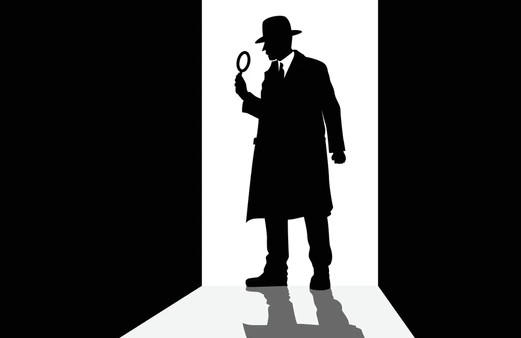
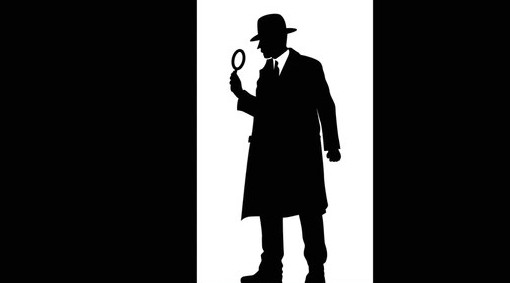
Implemented a link to the images for the projects that lead to the github repo.

Changed region(s): [[0.4412, 0.0, 0.7941, 1.0], [0.2059, 0.0, 0.4118, 1.0]]

diff --git a/src/components/Projects.jsx b/src/components/Projects.jsx
@@ -9,6 +9,7 @@ const projectsData = [
     description:
       "Guess Who is crime investigation game where players take on the role of detectives and work to solve a mystery. Players must gather clues, interrogate suspects, and piece together the evidence to uncover the truth behind the crime.",
     technologies: ["Java", "CSS", "JavaFX"],
+    github: "https://github.com/Cj5822/guess-who",
   },
   {
     image: web3,
@@ -23,6 +24,7 @@ const projectsData = [
       "HTML",
       "CSS",
     ],
+    github: "https://github.com/Cj5822/web3-p2p-website",
   },
 ];
 
@@ -43,11 +45,13 @@ const ProjectCard = ({ project }) => {
   return (
     <ScrollReveal>
       <div className="flex flex-col items-center gap-8 md:flex-row md:gap-20">
-        <img
-          src={project.image}
-          alt=""
-          className="w-full cursor-pointer rounded-2xl transition-all duration-300 hover:scale-105 md:w-[300px]"
-        />
+        <a href={project.github} target="_blank" rel="noopener noreferrer">
+          <img
+            src={project.image}
+            alt=""
+            className="w-full cursor-pointer rounded-2xl transition-all duration-300 hover:scale-105 md:w-[900px]"
+          />
+        </a>
 
         <div className="flex flex-col gap-5">
           <div className="flex flex-col gap-3">

diff --git a/src/components/Hero.jsx b/src/components/Hero.jsx
@@ -32,7 +32,13 @@ const Hero = () => {
             Software Developer
           </h3>
           <p className="md:text-base text-pretty text-sm text-gray-400">
-            I am a software engineering student attending the University of Auckland. I love to learn new things and work together as a team. I am determined to become a full-time software engineer and so I am constantly learning new technologies and improving my skills. I am currently looking for internships to gain experience in the industry.
+            I am a passionate Software Engineering student at the University of
+            Auckland, eager to expand my knowledge and apply my skills in
+            real-world settings. I thrive in collaborative environments and am
+            driven by a strong determination to become a full-time software
+            engineer. Continuously learning and staying up-to-date with the
+            latest technologies, I am actively seeking internship opportunities
+            to gain hands-on experience and contribute to meaningful projects.
           </p>
         </motion.div>
       </div>

diff --git a/src/components/Tech.jsx b/src/components/Tech.jsx
@@ -62,7 +62,7 @@ const Tech = () => {
           whileInView="visible"
           transition={{ duration: 0.5 }}
         >
-          <BiLogoPython className="cursor-pointer text-green-500 transition-all duration-300 hover:-translate-y-5 sm:text-[100px] md:text-[120px]" />
+          <BiLogoPython className="cursor-pointer text-[80px] text-green-500 transition-all duration-300 hover:-translate-y-5 sm:text-[100px] md:text-[120px]" />
         </motion.div>
 
         <motion.div
